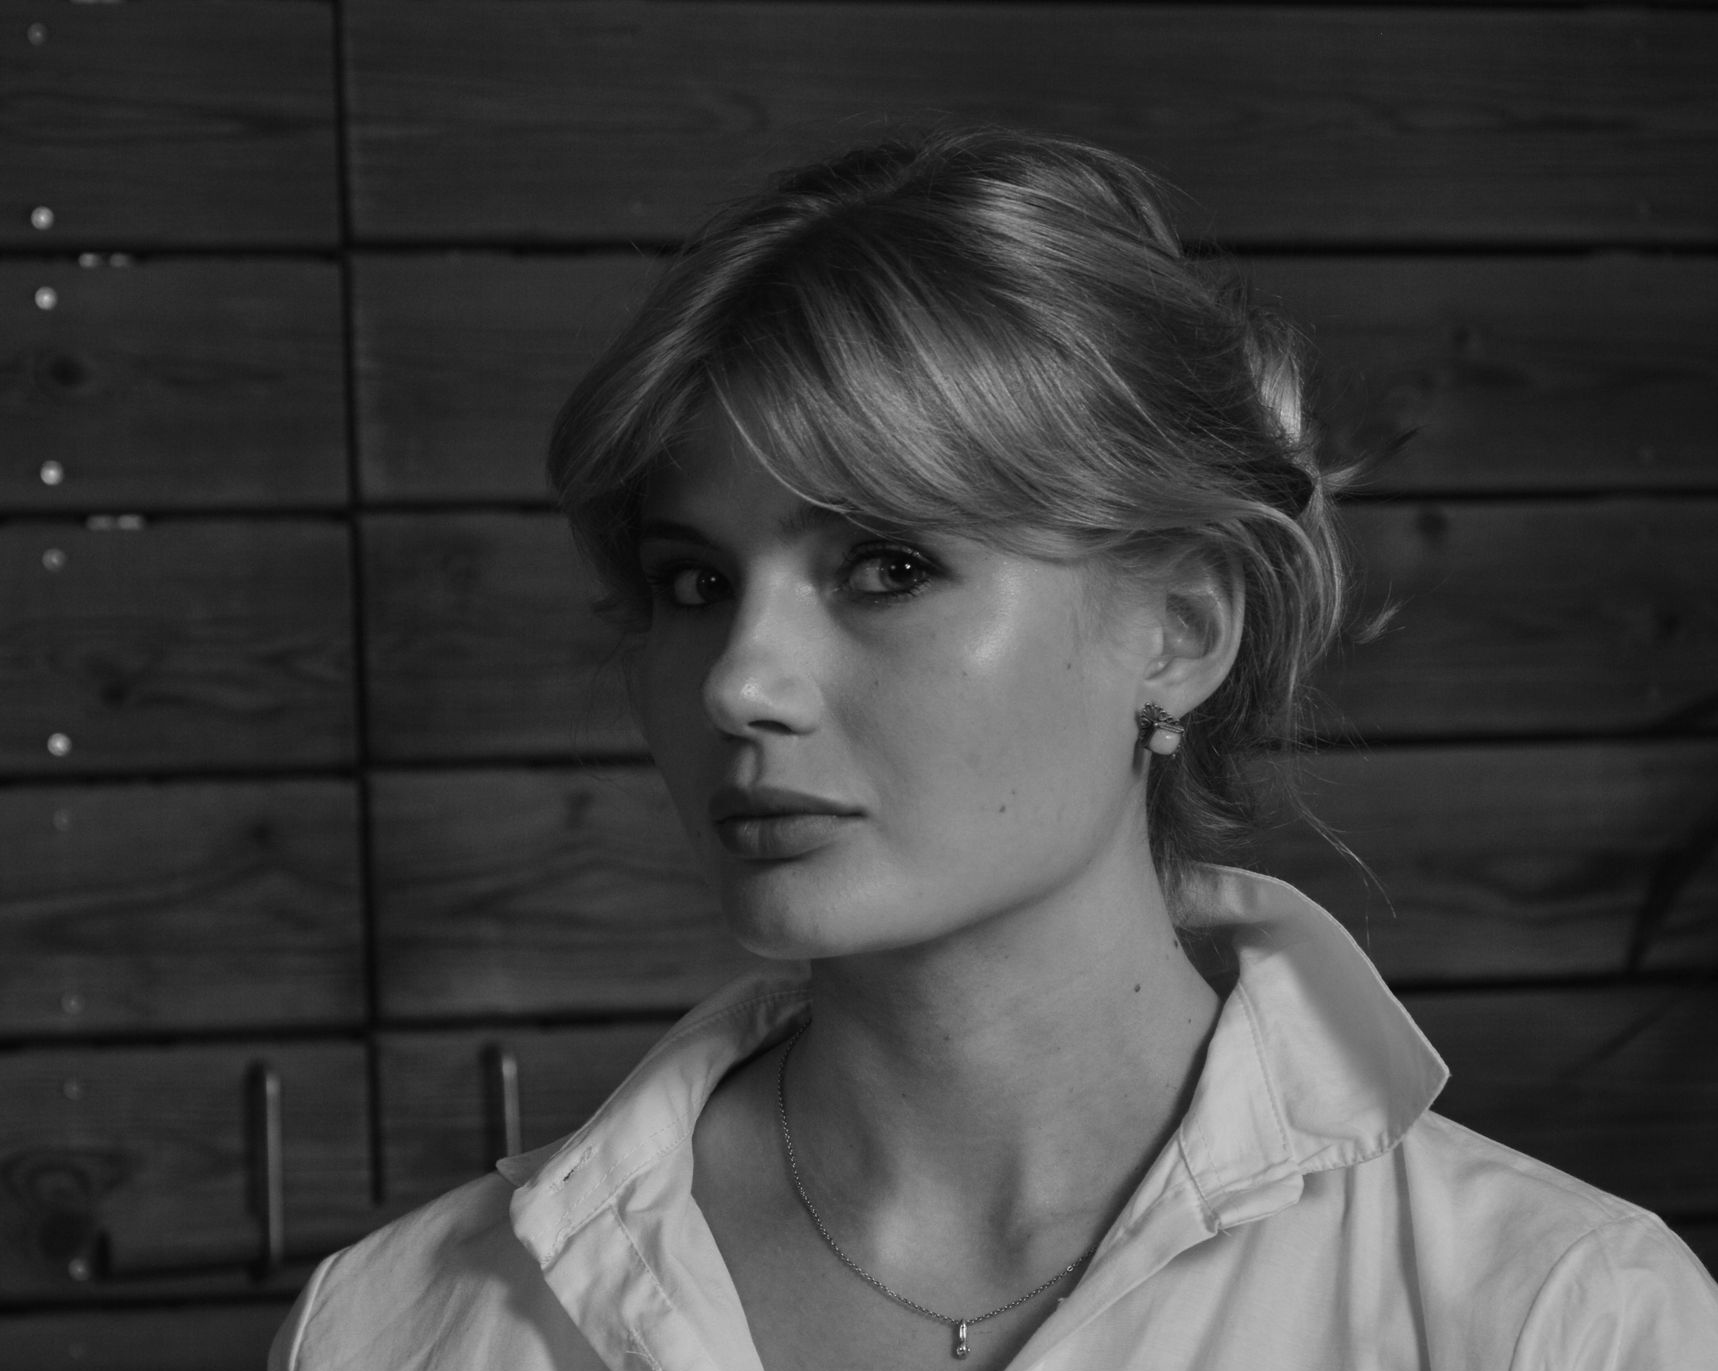
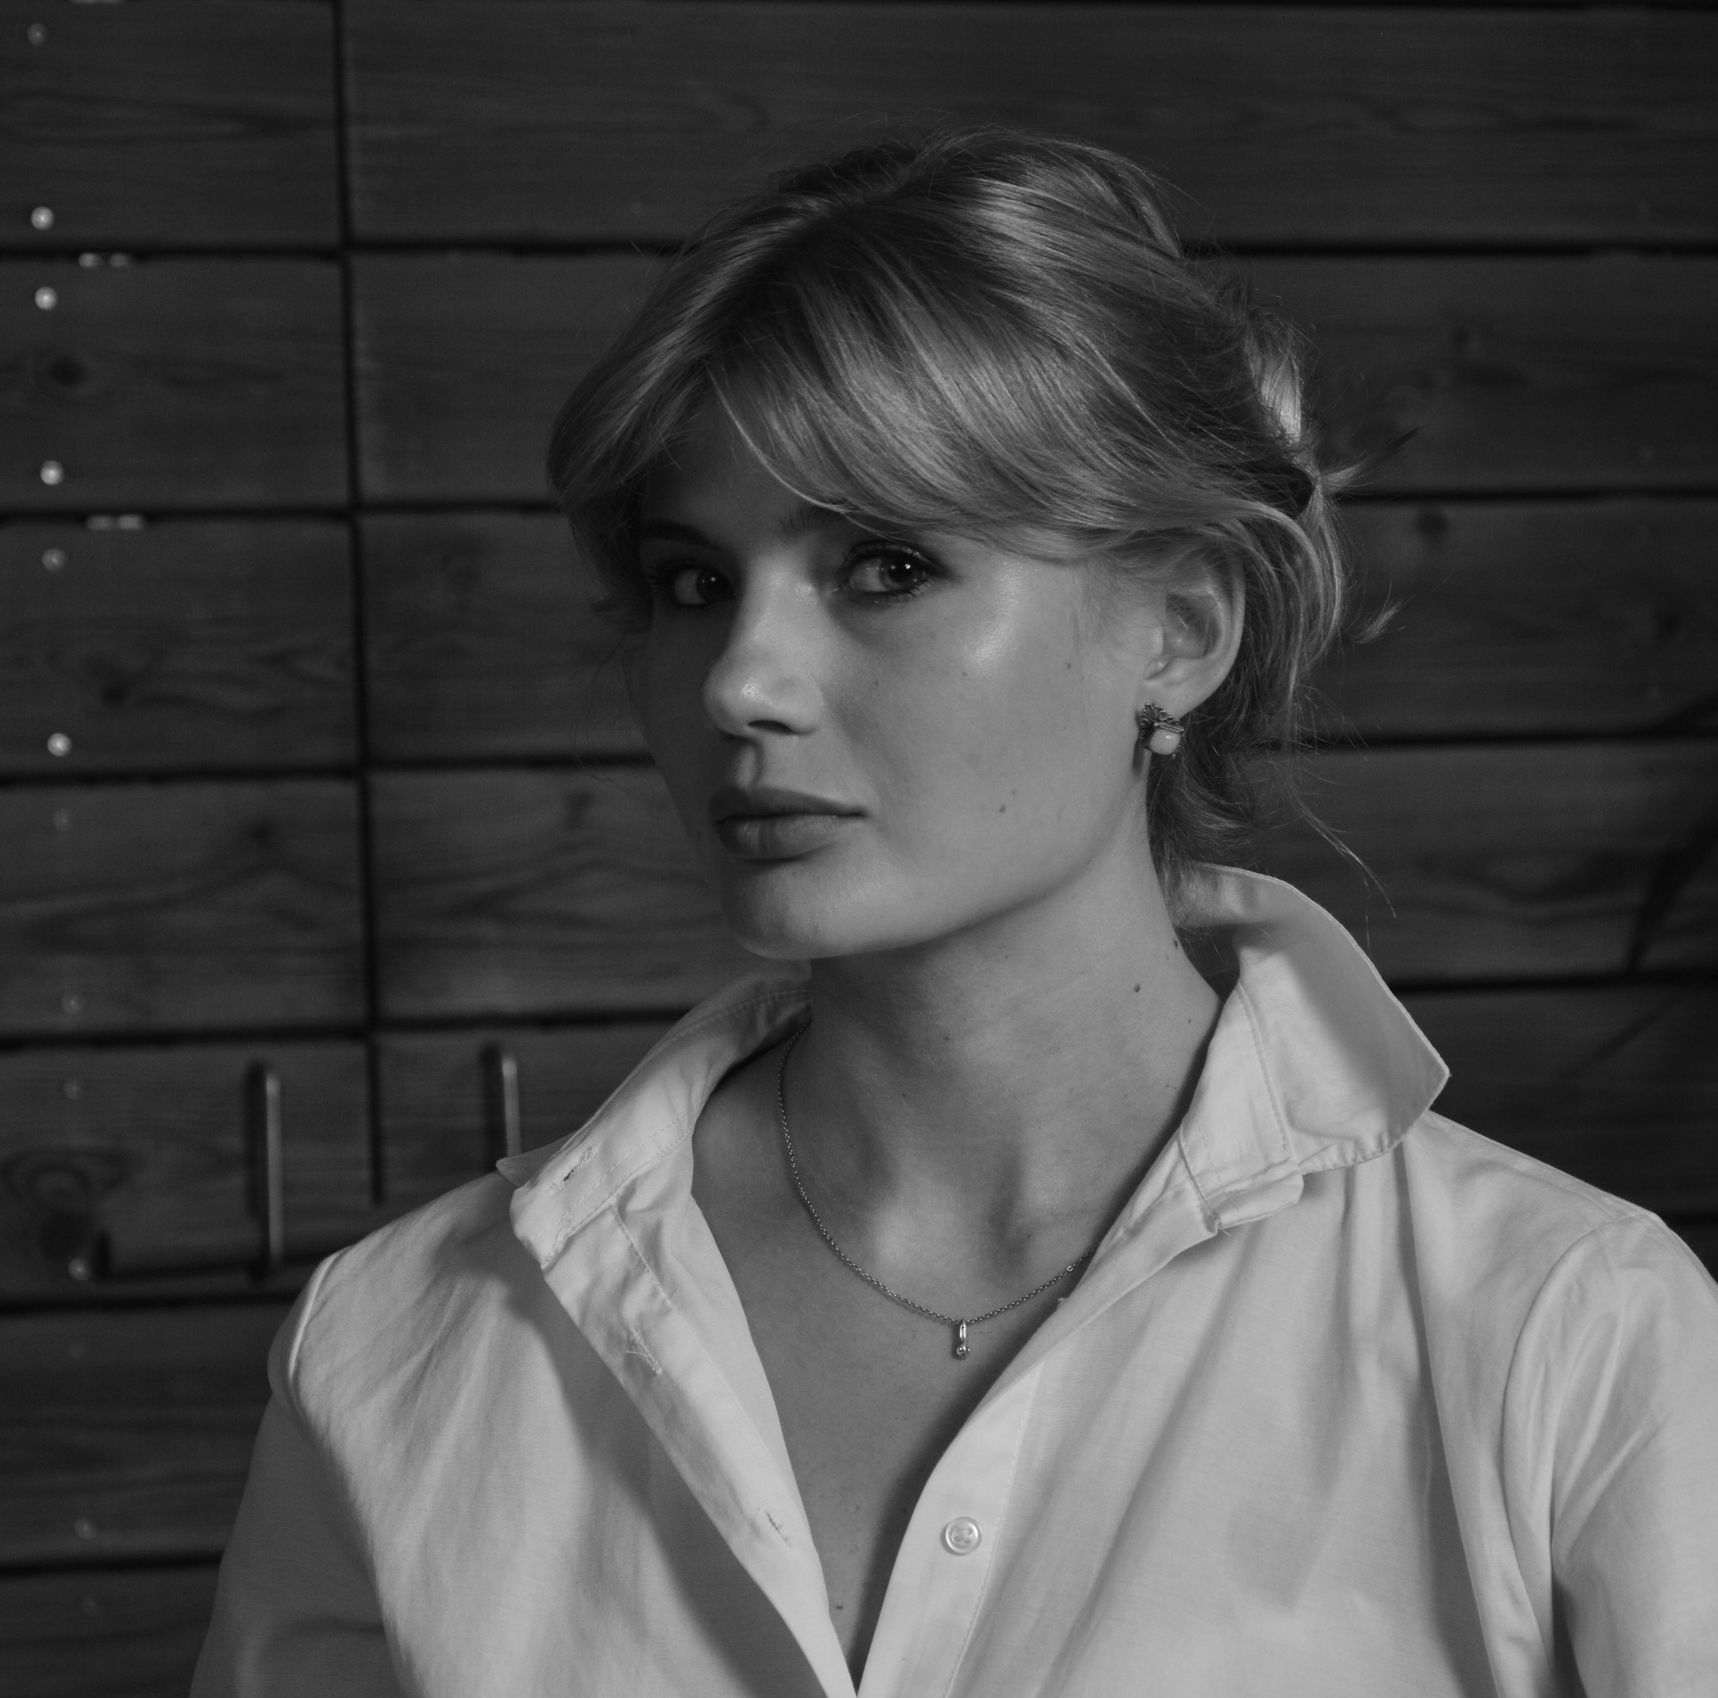
Add files via upload

diff --git a/index.html b/index.html
@@ -1588,7 +1588,7 @@ textarea {
   <div class="contact-cta-box slide-up" style="margin-top: 0; display: flex; flex-direction: column;">
     <h3>Quick CTA</h3>
     <p>If you're unsure what to pick — start with the 30-Min Strategy Reset. It's the fastest clarity.</p>
-    <div class="footer-heading" style="margin-top: 16px;">FOLLOW</div>
+    <!--<div class="footer-heading" style="margin-top: 16px;">FOLLOW</div>
     <div class="footer-social" style="margin-top: 8px; margin-bottom: 16px;">
       <a href="https://www.facebook.com/diana.yaropud.3"><div class="social-pill"><img src="icons/facebook.png" alt="Facebook" style="width: 26px; height: 26px; object-fit: contain;" /></div></a>
       <a href="https://www.instagram.com/myronivna/?hl=en"><div class="social-pill"><img src="icons/instagram.png" alt="Instagram" style="width: 26px; height: 26px; object-fit: contain;" /></div></a>
@@ -1599,10 +1599,10 @@ textarea {
 <div style="display: flex; gap: 10px; margin-top: auto;">
   <a href="#services" class="cta-btn primary" style="flex: 1; text-align: center; padding: 14px 8px; font-size: 11px;">See consultation options</a>
   <a href="#guide" class="cta-btn" style="flex: 1; text-align: center; padding: 14px 8px; font-size: 11px;">See the guide</a>
-</div>
+</div>-->
 
 
-<!--<div style="display: flex; gap: 10px; margin-top: auto;">
+<div style="display: flex; gap: 10px; margin-top: auto;">
   <a href="#services" class="cta-btn primary" style="flex: 1; text-align: center; padding: 14px 8px; font-size: 11px;">See consultation options</a>
   <a href="#guide" class="cta-btn" style="flex: 1; text-align: center; padding: 14px 8px; font-size: 11px;">See the guide</a>
 </div>
@@ -1613,7 +1613,7 @@ textarea {
   <a href="https://www.linkedin.com/in/diana-yaropud-b73344218/"><div class="social-pill"><img src="icons/linkedin.png" alt="LinkedIn" style="width: 26px; height: 26px; object-fit: contain;" /></div></a>
   <div class="social-pill"><img src="icons/twitter.png" alt="Twitter" style="width: 26px; height: 26px; object-fit: contain;" /></div>
   <div class="social-pill"><img src="icons/yahoo.png" alt="Yahoo" style="width: 26px; height: 26px; object-fit: contain;" /></div>
-</div>-->
+</div>
   </div>
 
 </div>
